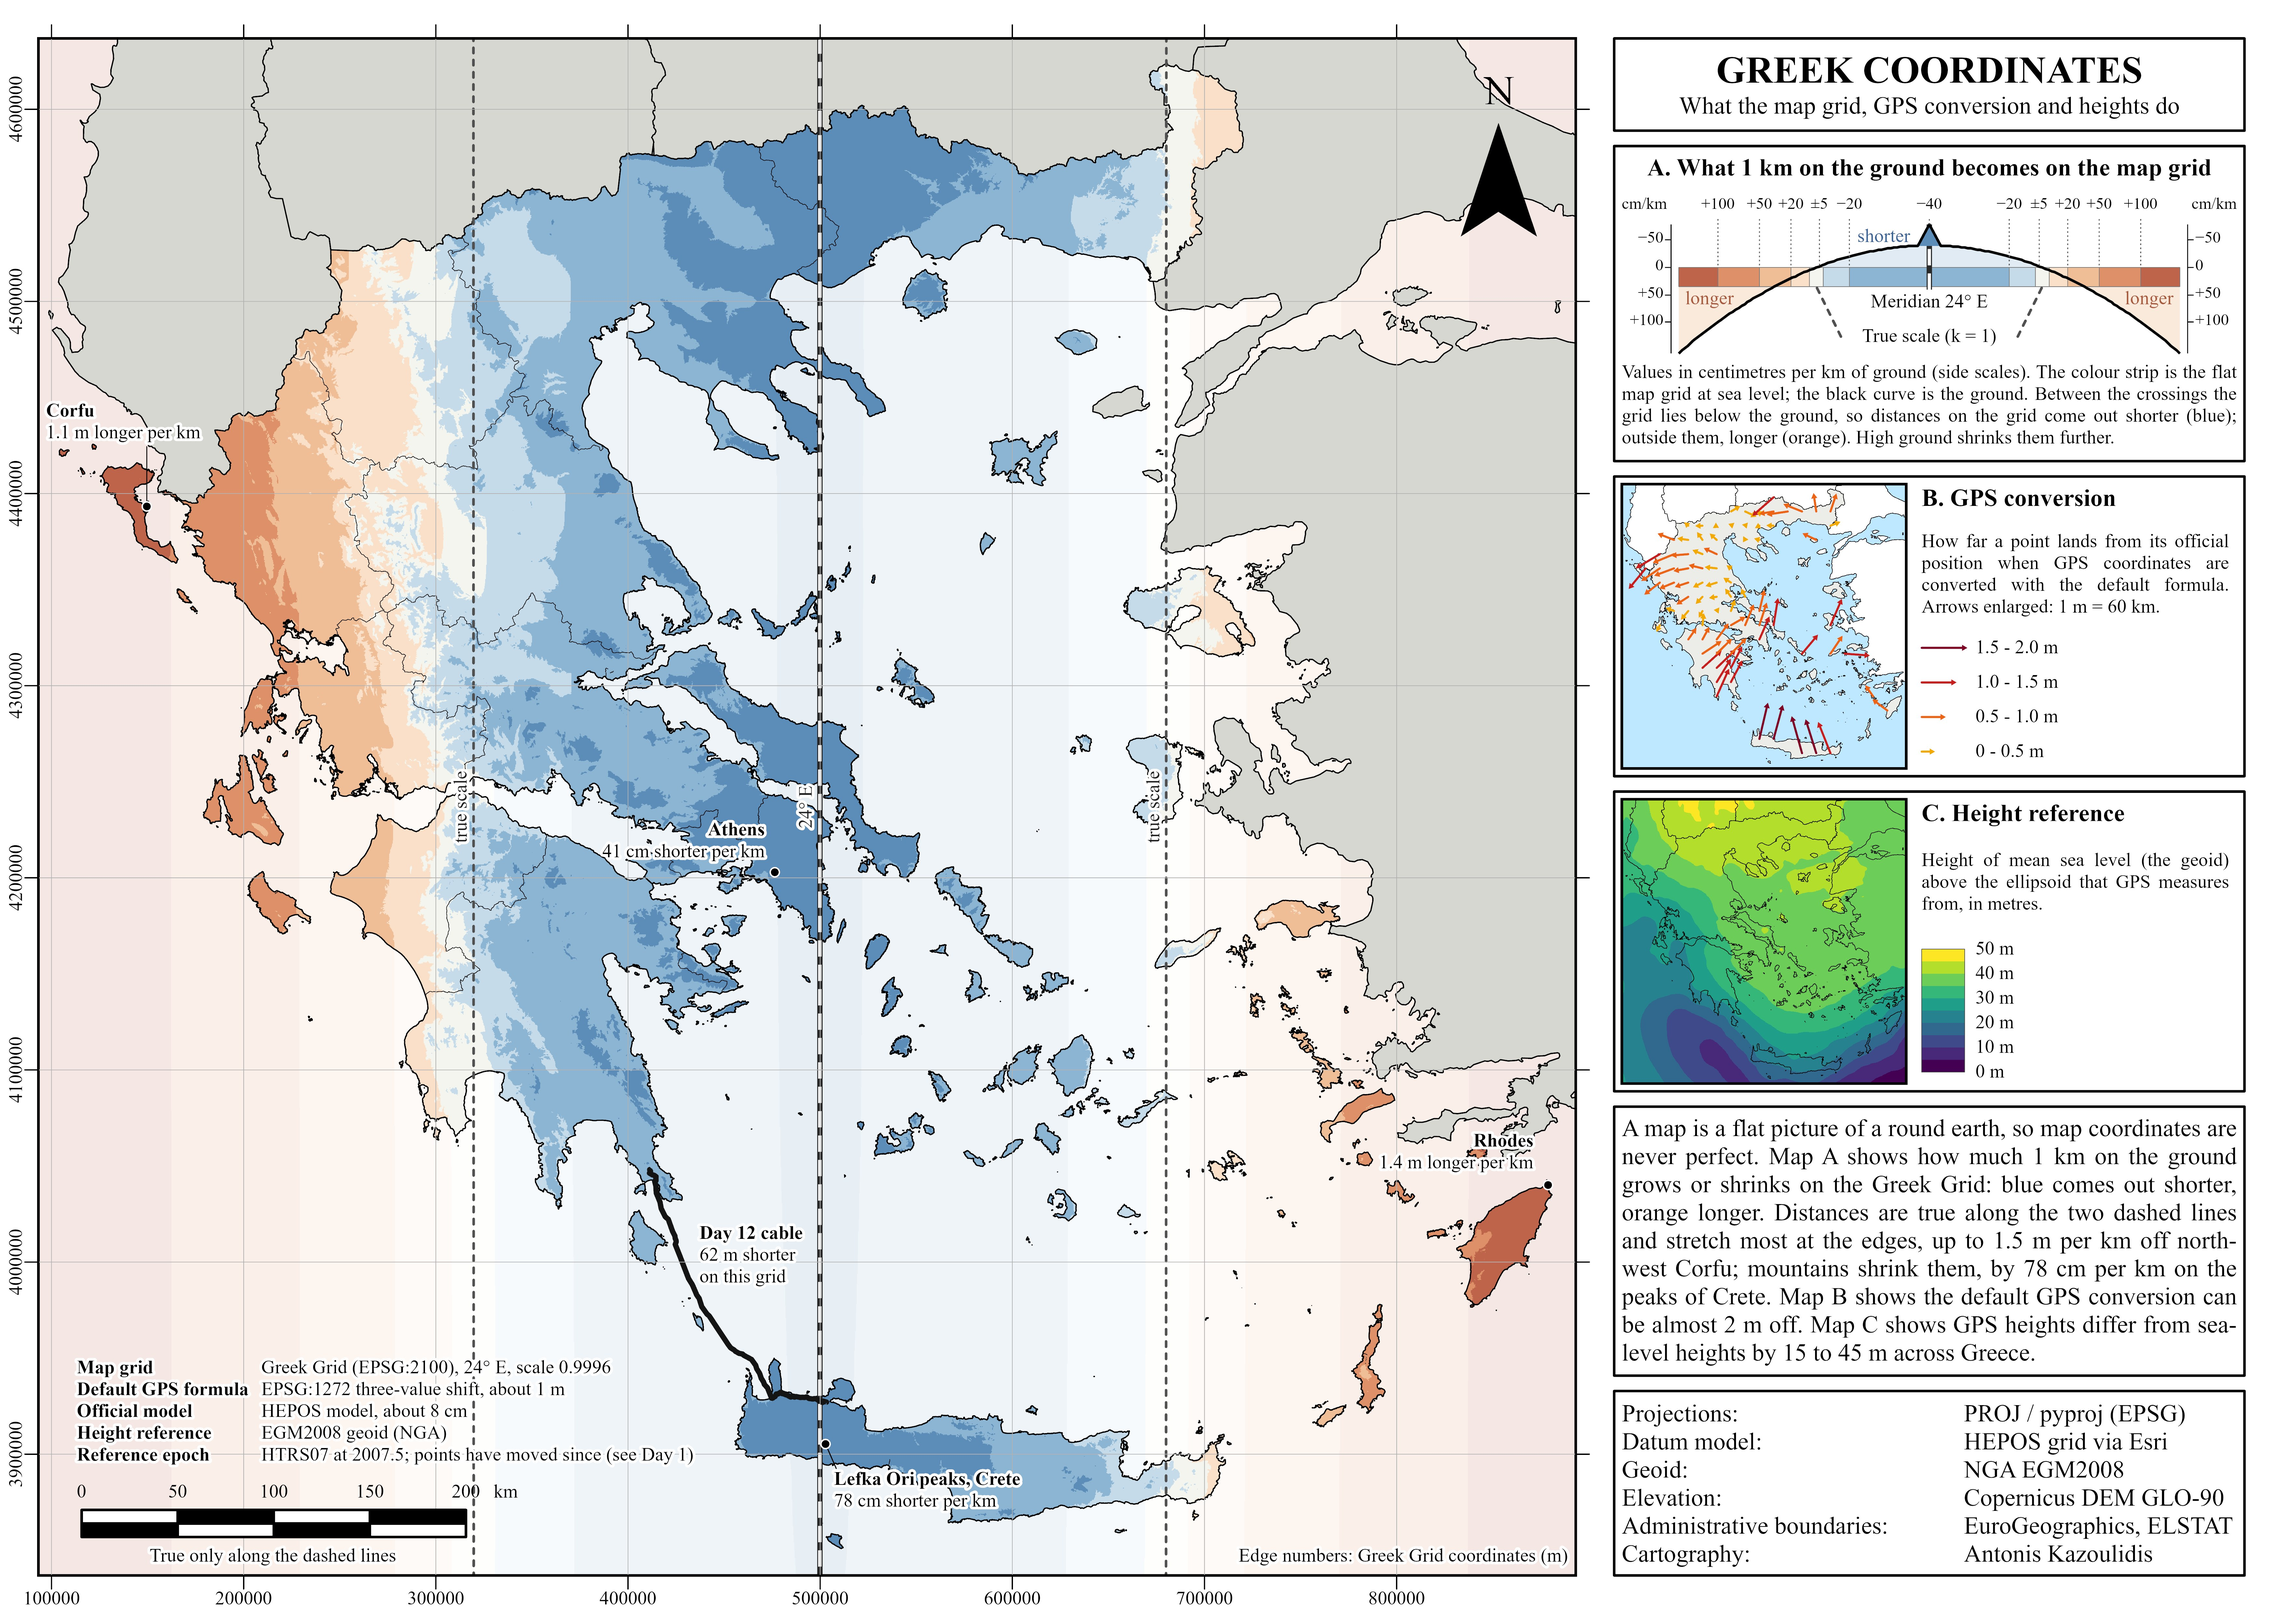
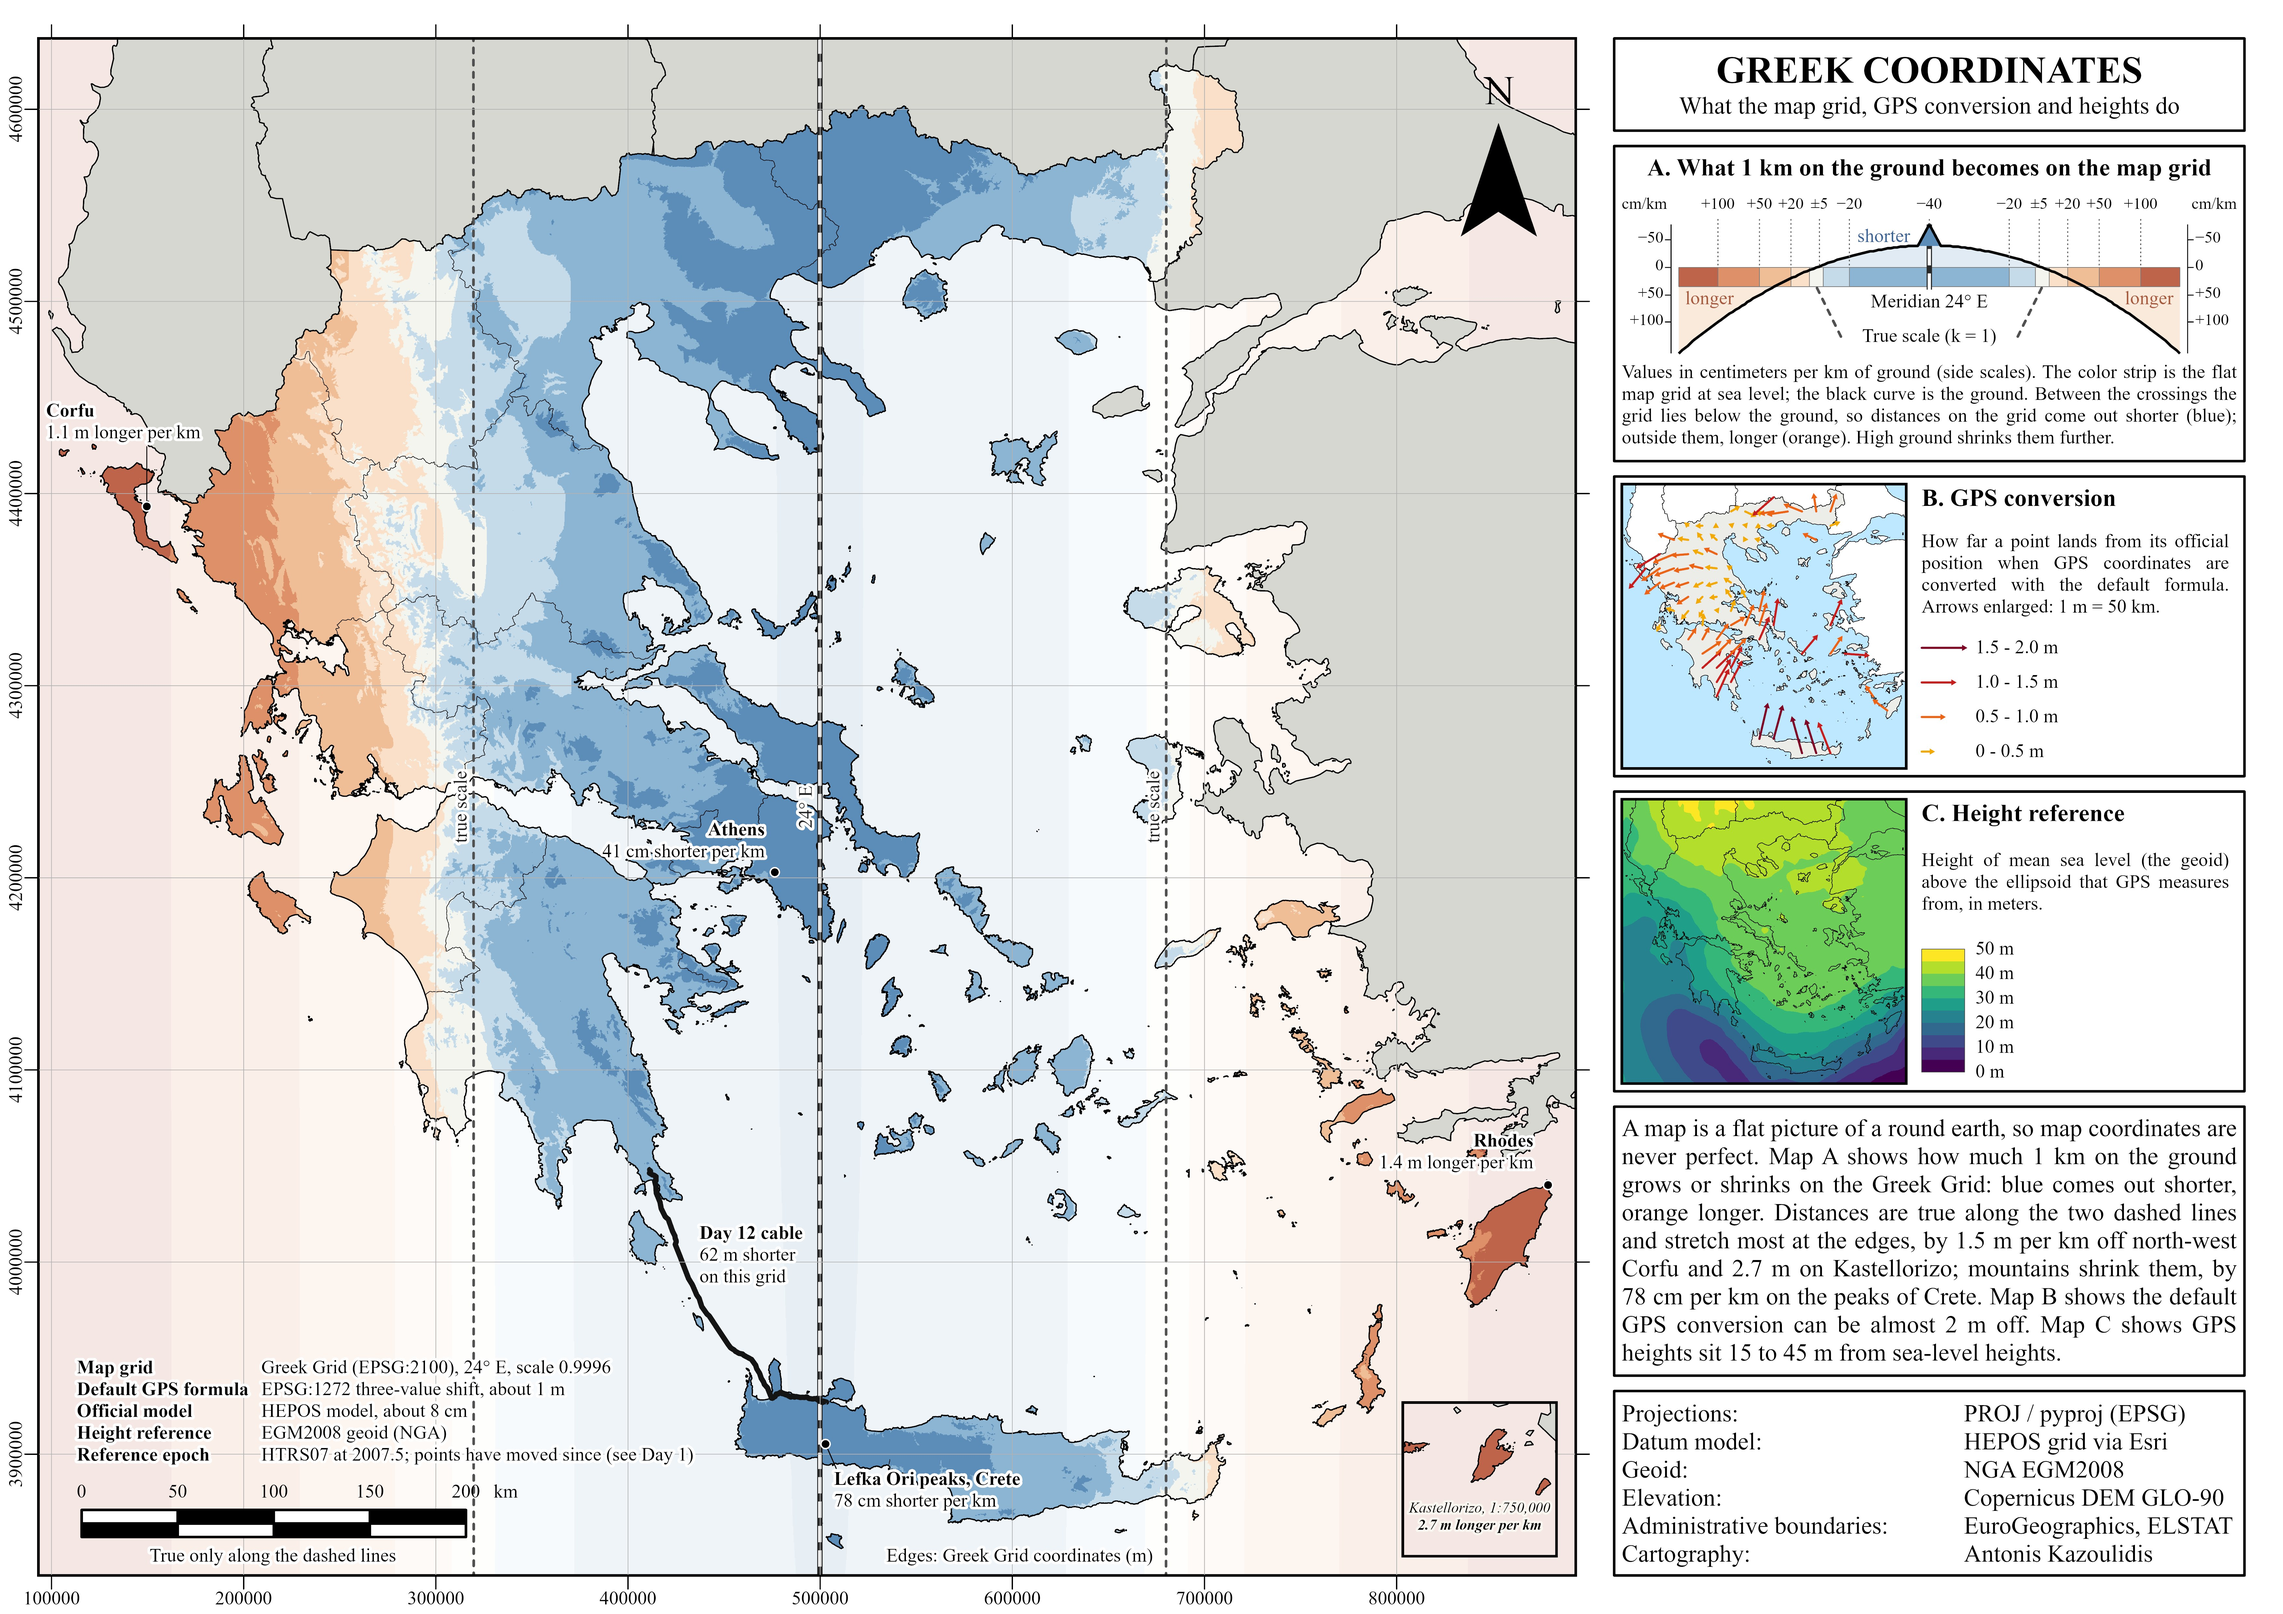
Day 22: error check (2.7 m per km on Kastellorizo, arrows 1 m = 50 km, 57 cm), Kastellorizo inset, and a map to click for any spot's figures

diff --git a/src/content/projects/30dmc-2026-day-22-projections.md b/src/content/projects/30dmc-2026-day-22-projections.md
@@ -1,6 +1,6 @@
 ---
 title: 'Day 22 - Projections: Greek Coordinates'
-summary: 'What the Greek map grid, GPS conversion and height reference do to a coordinate. On the grid, 1 km on the ground comes out up to 78 cm shorter or 1.5 m longer; the default GPS conversion lands up to 2 m from the official model; and GPS heights sit 15 to 45 m away from heights above sea level.'
+summary: 'What the Greek map grid, GPS conversion and height reference do to a coordinate. On the grid, 1 km on the ground comes out up to 78 cm shorter or 2.7 m longer; the default GPS conversion lands up to 2 m from the official model; and GPS heights sit 15 to 45 m away from heights above sea level.'
 date: 2026-11-22
 featured: true
 created: 2026-10-26
@@ -9,7 +9,7 @@ context: '#30DayMapChallenge 2026 · Day 22'
 tags: ['ArcGIS Pro', 'Python', 'pyproj', 'Geodesy', 'Map projections']
 image: '/images/30dmc-2026-day-22-wide.webp'
 imageFull: '/images/30dmc-2026-day-22-full.webp'
-imageAlt: 'Printed A4 map of Greece coloured by how much the Greek Grid stretches or shrinks distances on the ground: blue in a band along the 24° E meridian and over the mountains, orange towards the west and east edges, with dashed true-scale lines either side of the meridian and labels for Corfu, Athens, the peaks of Crete and Rhodes; a chart in the right column draws the flat grid against the curved ground, and two small maps show GPS conversion arrows and the geoid height'
+imageAlt: 'Printed A4 map of Greece colored by how much the Greek Grid stretches or shrinks distances on the ground: blue in a band along the 24° E meridian and over the mountains, orange towards the west and east edges, with dashed true-scale lines either side of the meridian and labels for Corfu, Athens, the peaks of Crete and Rhodes, and Kastellorizo in an inset; a chart in the right column draws the flat grid against the curved ground, and two small maps show GPS conversion arrows and the geoid height'
 thumbnail: '/images/30dmc-2026-day-22-square.webp'
 thumbnailAlt: 'Map of Greece in blue and orange bands showing how the Greek Grid changes distances'
 downloads:
@@ -18,7 +18,7 @@ downloads:
     note: 'JPEG · 7016 × 4961 · 3.3 MB'
   - label: 'Square version'
     href: '/downloads/30dmc-2026-day-22-map-square.jpg'
-    note: 'JPEG · 4724 × 4724 · 2.4 MB'
+    note: 'JPEG · 4724 × 4724 · 1.8 MB'
 dataSource:
   - label: 'EPSG Geodetic Parameter Dataset - GGRS87 / Greek Grid (EPSG:2100)'
     href: 'https://epsg.io/2100'
@@ -40,8 +40,11 @@ dataSource:
     href: 'https://web.archive.org/web/20210813160912/https://www.hnhs.gr/images/pdf_aggelies/gr/2021/Docs/0421.pdf'
   - label: 'Hellenic Statistical Authority (ELSTAT) - Greek regional boundaries'
     href: 'https://www.statistics.gr/en/digital-cartographical-data'
-  - label: '© EuroGeographics, via Eurostat GISCO - NUTS boundaries of the neighbouring countries'
+  - label: '© EuroGeographics, via Eurostat GISCO - NUTS boundaries of the neighboring countries'
     href: 'https://ec.europa.eu/eurostat/web/gisco/geodata/statistical-units/territorial-units-statistics'
+map: '/data/30dmc-2026-day-22-coords.json'
+mapComponent: 'greek-coordinates'
+mapCaption: 'The main map of the sheet, what 1 km on the ground becomes on the Greek Grid. Click anywhere for that spot: the grid''s stretch and the height''s shrink, how far the default GPS conversion lands from the official HEPOS position and in which direction, and how far a GPS height sits from the height above sea level.'
 draft: true
 ---
 
@@ -62,17 +65,17 @@ the edges. Distances come out true along two lines about 180 km either side of
 24° E, the dashed lines on the map.
 
 The main map shows what 1 km measured on the ground becomes on the grid, in
-centimetres. On the meridian it is 40 cm short at sea level. Towards the edges
-it grows: 1.1 m long at Corfu town, 1.4 m on Rhodes and up to 1.5 m on the
-islands off north-west Corfu. Height works the other way. A distance measured
+centimeters. On the meridian it is 40 cm short at sea level. Towards the edges
+it grows: 1.1 m long at Corfu town, 1.4 m on Rhodes, 1.5 m on the islands off
+north-west Corfu and 2.7 m on Kastellorizo, the farthest east, in the inset. Height works the other way. A distance measured
 up a mountain is reduced to sea level before it is projected, about 16 cm per
 km for every 1,000 m of height, so the high ground near the meridian is the
 most shrunk of all: 78 cm per km on the peaks of the Lefka Ori in Crete. The
 map uses the Copernicus 90 m elevation model and EGM2008 for those heights.
 
-The chart in panel A draws the same idea in profile. The colour strip is the
+The chart in panel A draws the same idea in profile. The color strip is the
 grid at sea level, to scale across the map's 800 km; the black curve is the
-ground, plotted at its real change in centimetres per km against the scales at
+ground, plotted at its real change in centimeters per km against the scales at
 the sides. The Day 12 cable is a worked example: 62 m shorter on the Greek Grid
 than on the ellipsoid, over 175 km.
 
@@ -89,13 +92,13 @@ I ran both over a 10 km test grid with pyproj. The default lands a median of
 0.73 m from the HEPOS model, 1.57 m at the 95th percentile and 1.99 m at most;
 on land the median is 0.60 m and the largest 1.87 m. Panel B draws the land
 points every 40 km as arrows from the default answer to the official one,
-enlarged so that 1 m becomes 60 km. The pattern is not random: in the
+enlarged so that 1 m becomes 50 km. The pattern is not random: in the
 north-west the official positions lie to the west of the default ones, in Crete
 to the north, so a single shift cannot fit the whole country.
 
-HTRS07 itself is fixed at 2007.5. Greece moves a few centimetres a year, so a
+HTRS07 itself is fixed at 2007.5. Greece moves a few centimeters a year, so a
 point measured today sits away from its HTRS07 coordinates, by up to about
-56 cm in Crete ([Day 1](/projects/30dmc-2026-day-01-points)).
+57 cm in Crete ([Day 1](/projects/30dmc-2026-day-01-points)).
 
 ## C. Heights
 
@@ -108,7 +111,7 @@ corrected by that amount before it means height above sea level.
 
 | Step | Default | Official or better | Difference here |
 | --- | --- | --- | ---: |
-| Map grid | Greek Grid, 24° E, 0.9996 | - | −78 cm to +1.5 m per km |
+| Map grid | Greek Grid, 24° E, 0.9996 | - | −78 cm to +2.7 m per km |
 | GPS to GGRS87 | EPSG:1272, about 1 m | HEPOS model, about 8 cm | up to 2 m |
 | Height reference | ellipsoid | EGM2008 geoid | 15 to 45 m |
 
